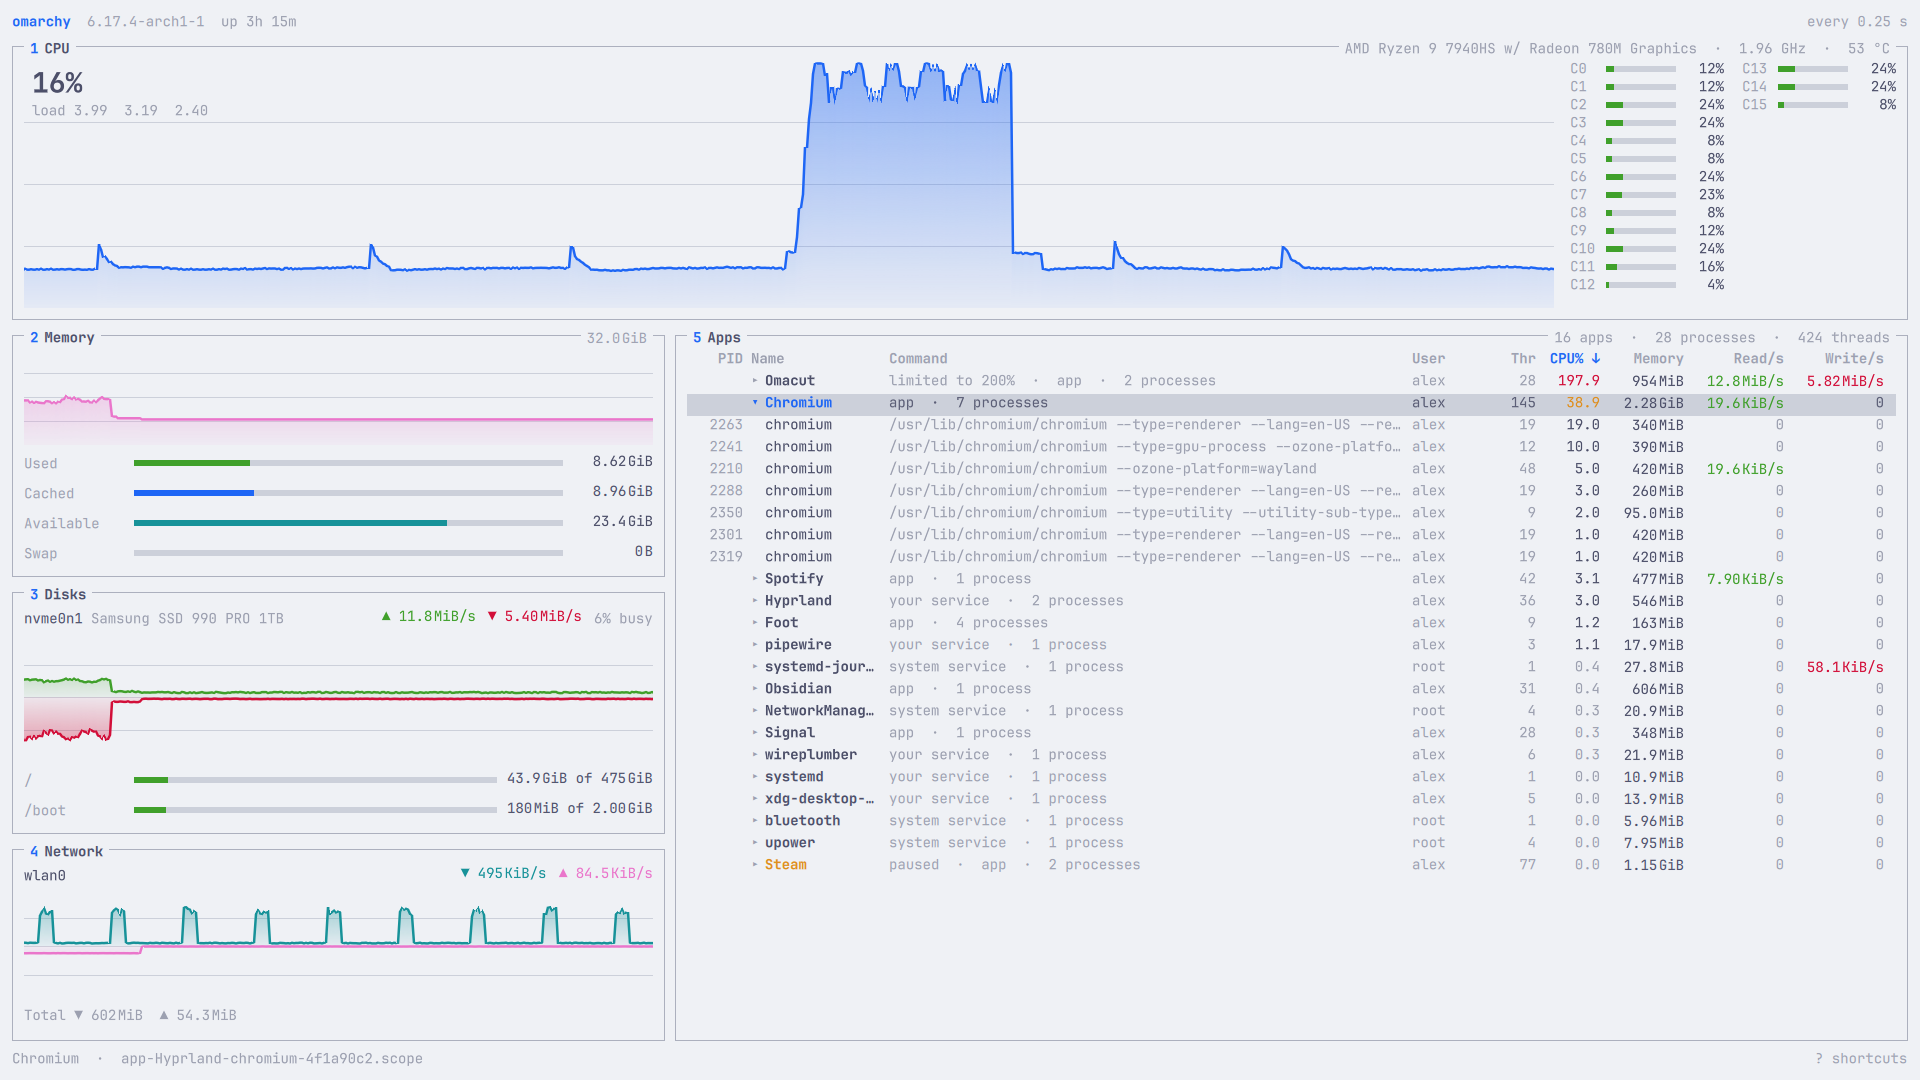
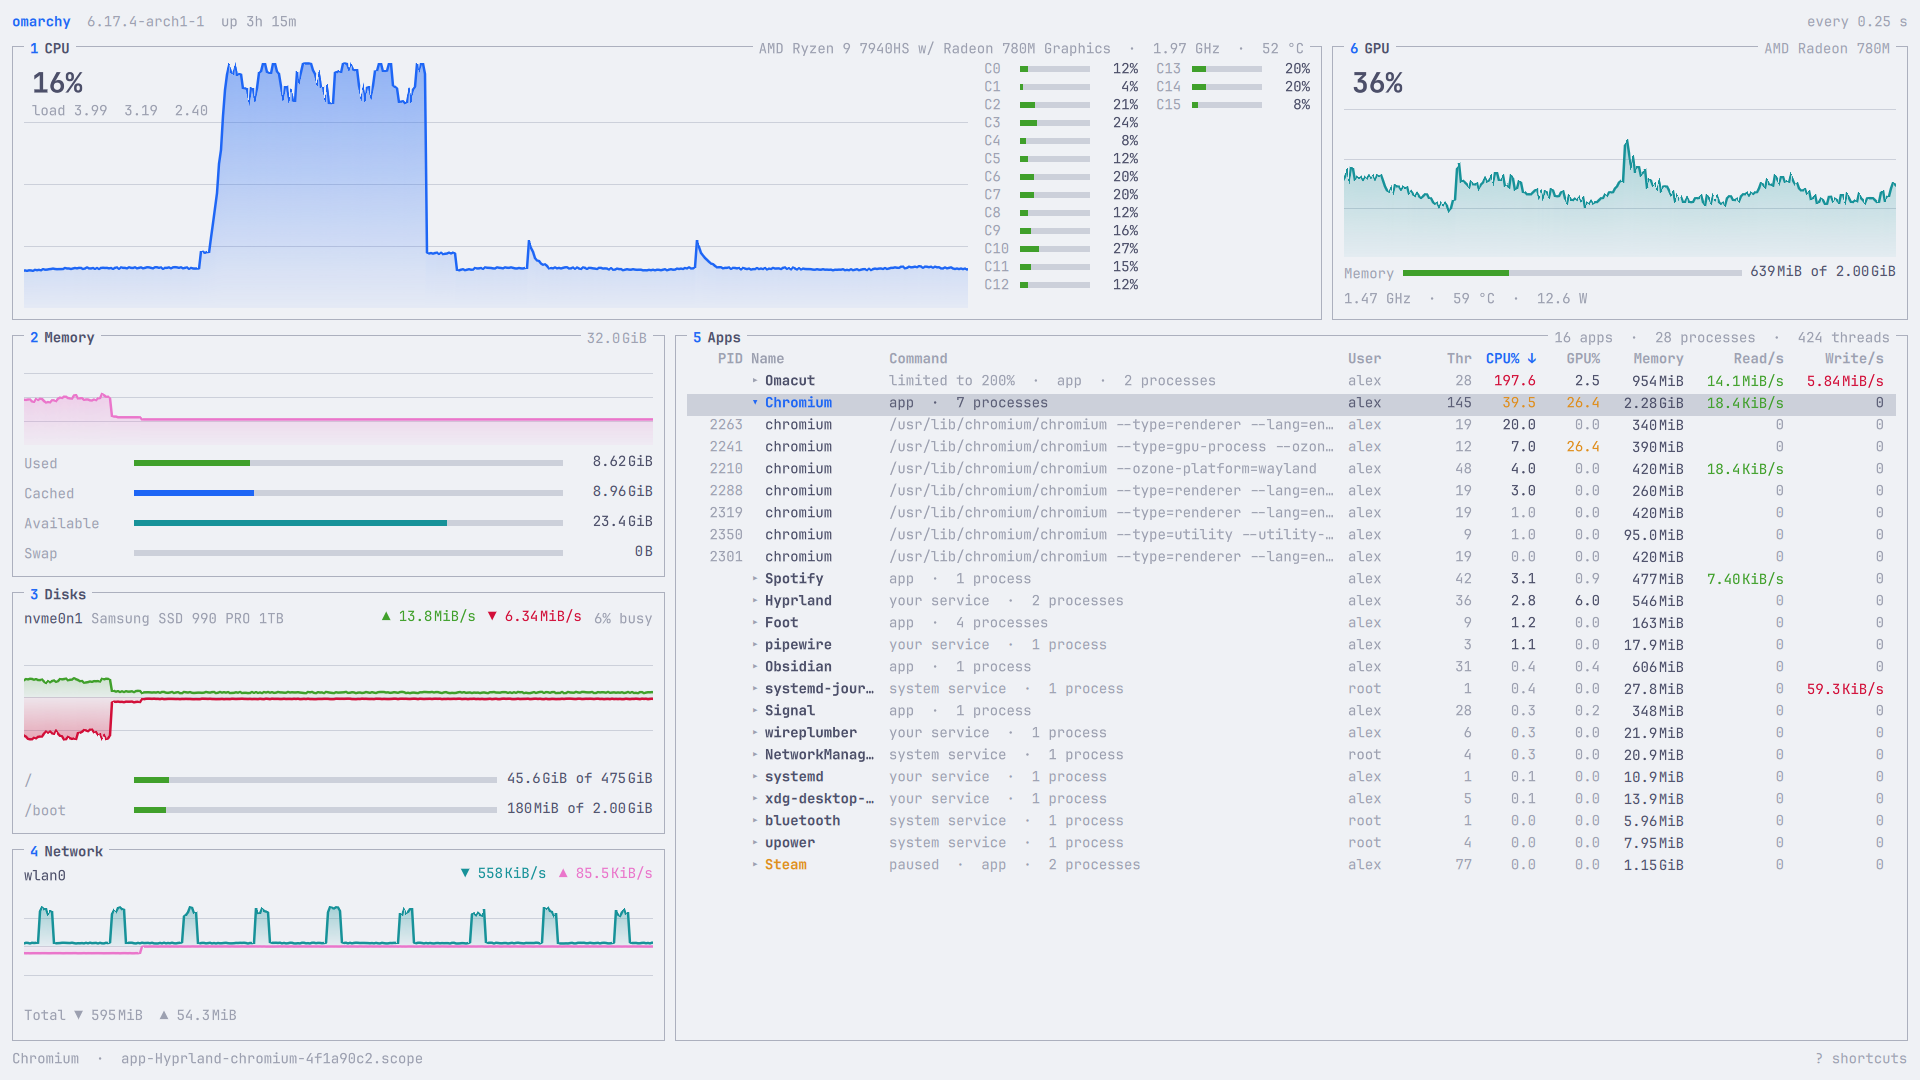
Retake the screenshots with the GPU panel

diff --git a/README.md b/README.md
@@ -4,7 +4,7 @@
 See what your machine is doing, find out what caused the spike you just
 missed, and pause the app hogging your CPU instead of killing it.
 
-![Vitals on Omarchy's Tokyo Night theme: CPU, memory, disk, and network graphs, with apps grouped by what you launched](docs/screenshots/overview.png)
+![Vitals on Omarchy's Tokyo Night theme: CPU, GPU, memory, disk, and network graphs, with apps grouped by what you launched](docs/screenshots/overview.png)
 
 Vitals is in the spirit of htop, bpytop, and btop, but built for the Omarchy
 desktop: one keyboard-driven window, drawn on the GPU, following your theme,
